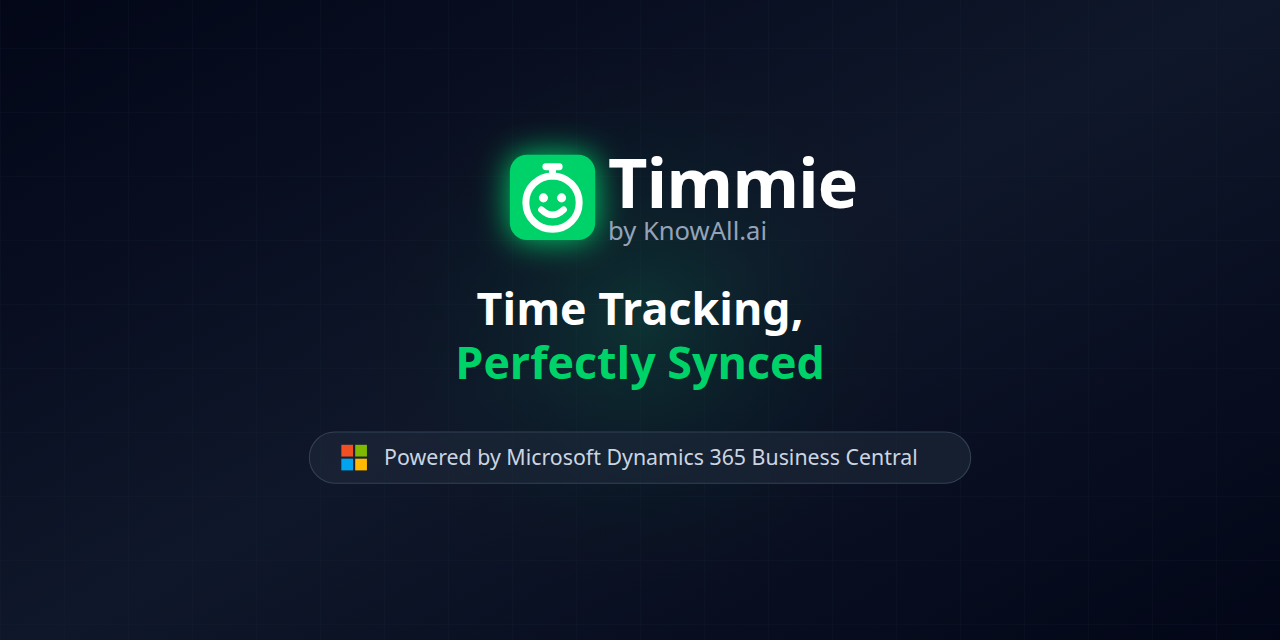
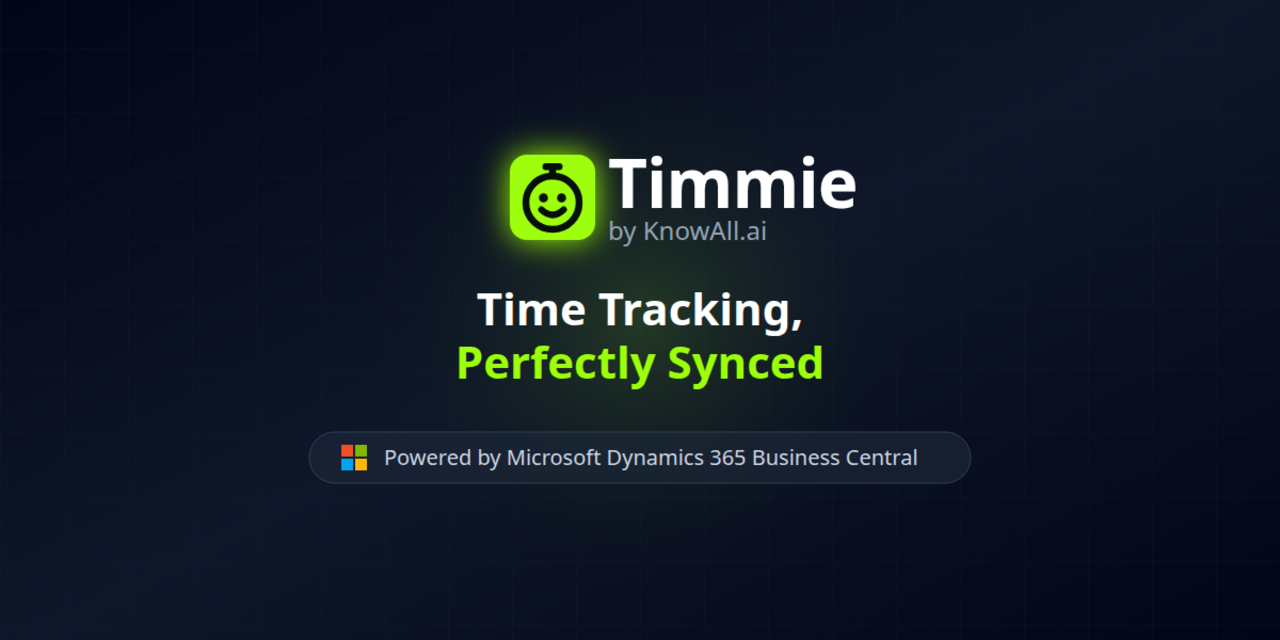
feat: switch the brand colour from mint to the KnowAll lime (#9dff0a)
Token values, Timmie accent scale, favicon, apple-touch icon, social preview (SVG, PNG and
OG image) go from mint #00d26a to lime #9dff0a. Self-contained: drop this commit to keep mint.

diff --git a/src/app/globals.css b/src/app/globals.css
@@ -6,10 +6,10 @@
   /* KnowAll.ai shared brand tokens. Text on brand must use brand-foreground (near-black),
      never white. brand-on-light is the brand colour for text on white or light backgrounds.
      Use opacity modifiers for tints (bg-brand/10, border-brand/50). */
-  --color-brand: #00d26a;
-  --color-brand-hover: #00ff7f;
+  --color-brand: #9dff0a;
+  --color-brand-hover: #b4ff3d;
   --color-brand-foreground: var(--color-gray-950);
-  --color-brand-on-light: #00b359;
+  --color-brand-on-light: #4d7c0f;
 
   /* shadcn/ui aliases */
   --color-primary: var(--color-brand);
@@ -31,17 +31,17 @@
   --color-dark-950: #020617;
 
   /* Timmie accent (matching KnowAll green) */
-  --color-timmie-50: #ecfdf5;
-  --color-timmie-100: #d1fae5;
-  --color-timmie-200: #a7f3d0;
-  --color-timmie-300: #6ee7b7;
-  --color-timmie-400: #34d399;
-  --color-timmie-500: #00d26a;
-  --color-timmie-600: #00b359;
-  --color-timmie-700: #059669;
-  --color-timmie-800: #047857;
-  --color-timmie-900: #065f46;
-  --color-timmie-950: #022c22;
+  --color-timmie-50: #f7ffe6;
+  --color-timmie-100: #ecffc2;
+  --color-timmie-200: #dcff8f;
+  --color-timmie-300: #c8ff5c;
+  --color-timmie-400: #b4ff3d;
+  --color-timmie-500: #9dff0a;
+  --color-timmie-600: #7acc00;
+  --color-timmie-700: #5c9900;
+  --color-timmie-800: #467300;
+  --color-timmie-900: #2f4d00;
+  --color-timmie-950: #172600;
 
   /* Fonts */
   --font-family-sans: 'Inter', system-ui, sans-serif;

diff --git a/src/components/social/SocialImageContent.tsx b/src/components/social/SocialImageContent.tsx
@@ -40,7 +40,7 @@ export function SocialImageContent() {
           transform: 'translate(-50%, -50%)',
           width: '800px',
           height: '800px',
-          background: 'radial-gradient(circle, rgba(0, 210, 106, 0.15) 0%, transparent 70%)',
+          background: 'radial-gradient(circle, rgba(157, 255, 10, 0.15) 0%, transparent 70%)',
           borderRadius: '50%',
         }}
       />
@@ -60,11 +60,11 @@ export function SocialImageContent() {
             width: '80px',
             height: '80px',
             borderRadius: '16px',
-            background: '#00D26A',
+            background: '#9dff0a',
             display: 'flex',
             alignItems: 'center',
             justifyContent: 'center',
-            boxShadow: '0 0 40px rgba(0, 210, 106, 0.4)',
+            boxShadow: '0 0 40px rgba(157, 255, 10, 0.4)',
           }}
         >
           <svg width="56" height="56" viewBox="2 2 28 28" fill="none">
@@ -122,7 +122,7 @@ export function SocialImageContent() {
           style={{
             fontSize: '42px',
             fontWeight: 600,
-            color: '#00D26A',
+            color: '#9dff0a',
           }}
         >
           Perfectly Synced
